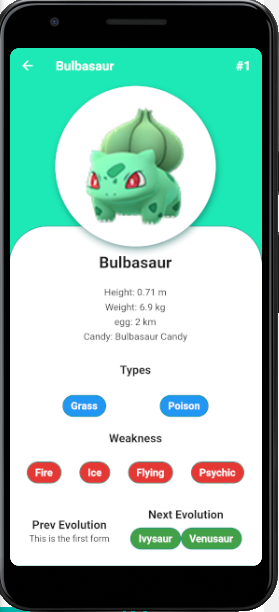
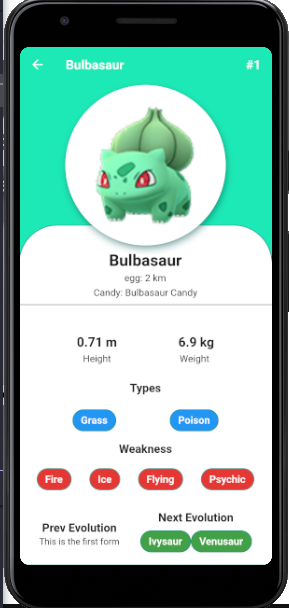
change poke detail design

diff --git a/lib/pokemondetail.dart b/lib/pokemondetail.dart
@@ -1,5 +1,5 @@
 import 'package:flutter/material.dart';
-import 'package:pokedex/pokemon.dart';
+import './pokemon.dart';
 
 class PokeDetail extends StatelessWidget {
   final Pokemon pokemon;
@@ -29,43 +29,86 @@ class PokeDetail extends StatelessWidget {
                   SizedBox(
                     height: 5.0,
                   ),
-                  Text(
-                    pokemon.name,
-                    style:
-                        TextStyle(fontSize: 25.0, fontWeight: FontWeight.bold),
-                  ),
-                  Column(
-                    mainAxisAlignment: MainAxisAlignment.spaceEvenly,
-                    children: [
-                      Text("Height: ${pokemon.height}",
+                  Container(
+                    width: double.infinity,
+                    margin: EdgeInsets.only(
+                      bottom: 20,
+                      top: 10,
+                    ),
+                    child: Column(
+                      children: [
+                        Text(
+                          pokemon.name,
+                          style: TextStyle(
+                              fontSize: 25.0, fontWeight: FontWeight.bold),
+                        ),
+                        Text(
+                          "egg: ${pokemon.egg}",
                           style: TextStyle(
                             fontWeight: FontWeight.w400,
                             fontSize: 15,
                             height: 1.5,
-                          )),
-                      Text(
-                        "Weight: ${pokemon.weight}",
-                        style: TextStyle(
-                          fontWeight: FontWeight.w400,
-                          fontSize: 15,
-                          height: 1.5,
+                          ),
                         ),
-                      ),
-                      Text(
-                        "egg: ${pokemon.egg}",
-                        style: TextStyle(
-                          fontWeight: FontWeight.w400,
-                          fontSize: 15,
-                          height: 1.5,
+                        Text(
+                          "Candy: ${pokemon.candy}",
+                          style: TextStyle(
+                            fontWeight: FontWeight.w400,
+                            height: 1.5,
+                            fontSize: 15,
+                          ),
                         ),
-                      ),
-                      Text(
-                        "Candy: ${pokemon.candy}",
-                        style: TextStyle(
-                          fontWeight: FontWeight.w400,
-                          height: 1.5,
-                          fontSize: 15,
-                        ),
+                        Divider(
+                          thickness: 0.7,
+                          height: 17,
+                          color: Colors.black,
+                        )
+                      ],
+                    ),
+                  ),
+                  Column(
+                    mainAxisAlignment: MainAxisAlignment.spaceEvenly,
+                    children: [
+                      Row(
+                        mainAxisAlignment: MainAxisAlignment.spaceEvenly,
+                        children: [
+                          Column(
+                            children: [
+                              Text("${pokemon.height}",
+                                  style: TextStyle(
+                                    fontWeight: FontWeight.bold,
+                                    fontSize: 20,
+                                    height: 1.5,
+                                  )),
+                              Text("Height",
+                                  style: TextStyle(
+                                    fontWeight: FontWeight.w400,
+                                    fontSize: 15,
+                                    height: 1.5,
+                                  )),
+                            ],
+                          ),
+                          Column(
+                            children: [
+                              Text(
+                                " ${pokemon.weight}",
+                                style: TextStyle(
+                                  fontWeight: FontWeight.bold,
+                                  fontSize: 20,
+                                  height: 1.5,
+                                ),
+                              ),
+                              Text(
+                                "Weight",
+                                style: TextStyle(
+                                  fontWeight: FontWeight.w400,
+                                  fontSize: 15,
+                                  height: 1.5,
+                                ),
+                              ),
+                            ],
+                          ),
+                        ],
                       ),
                     ],
                   ),
